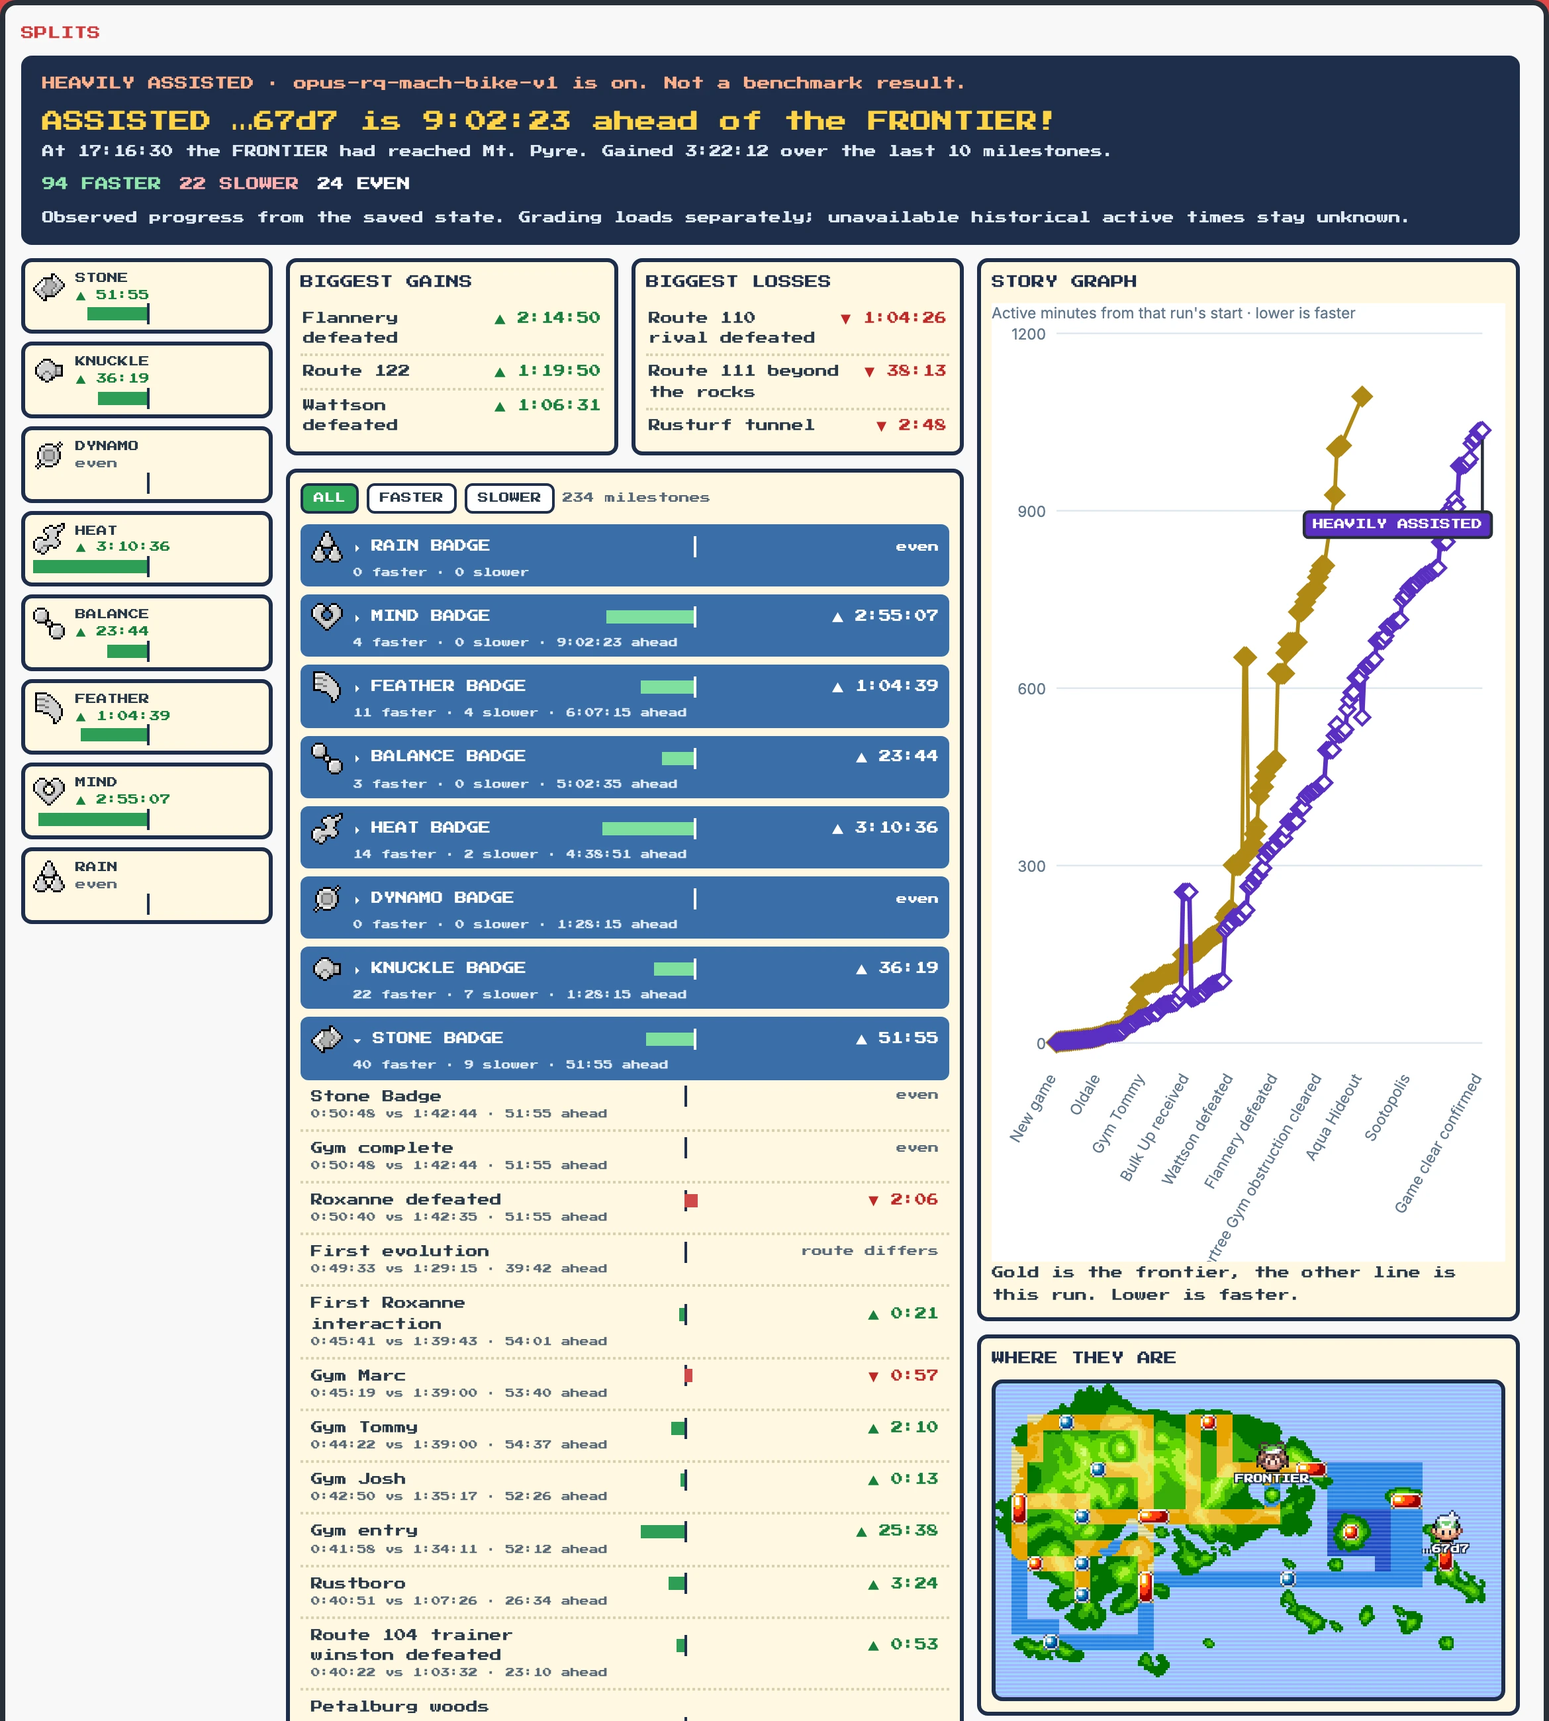
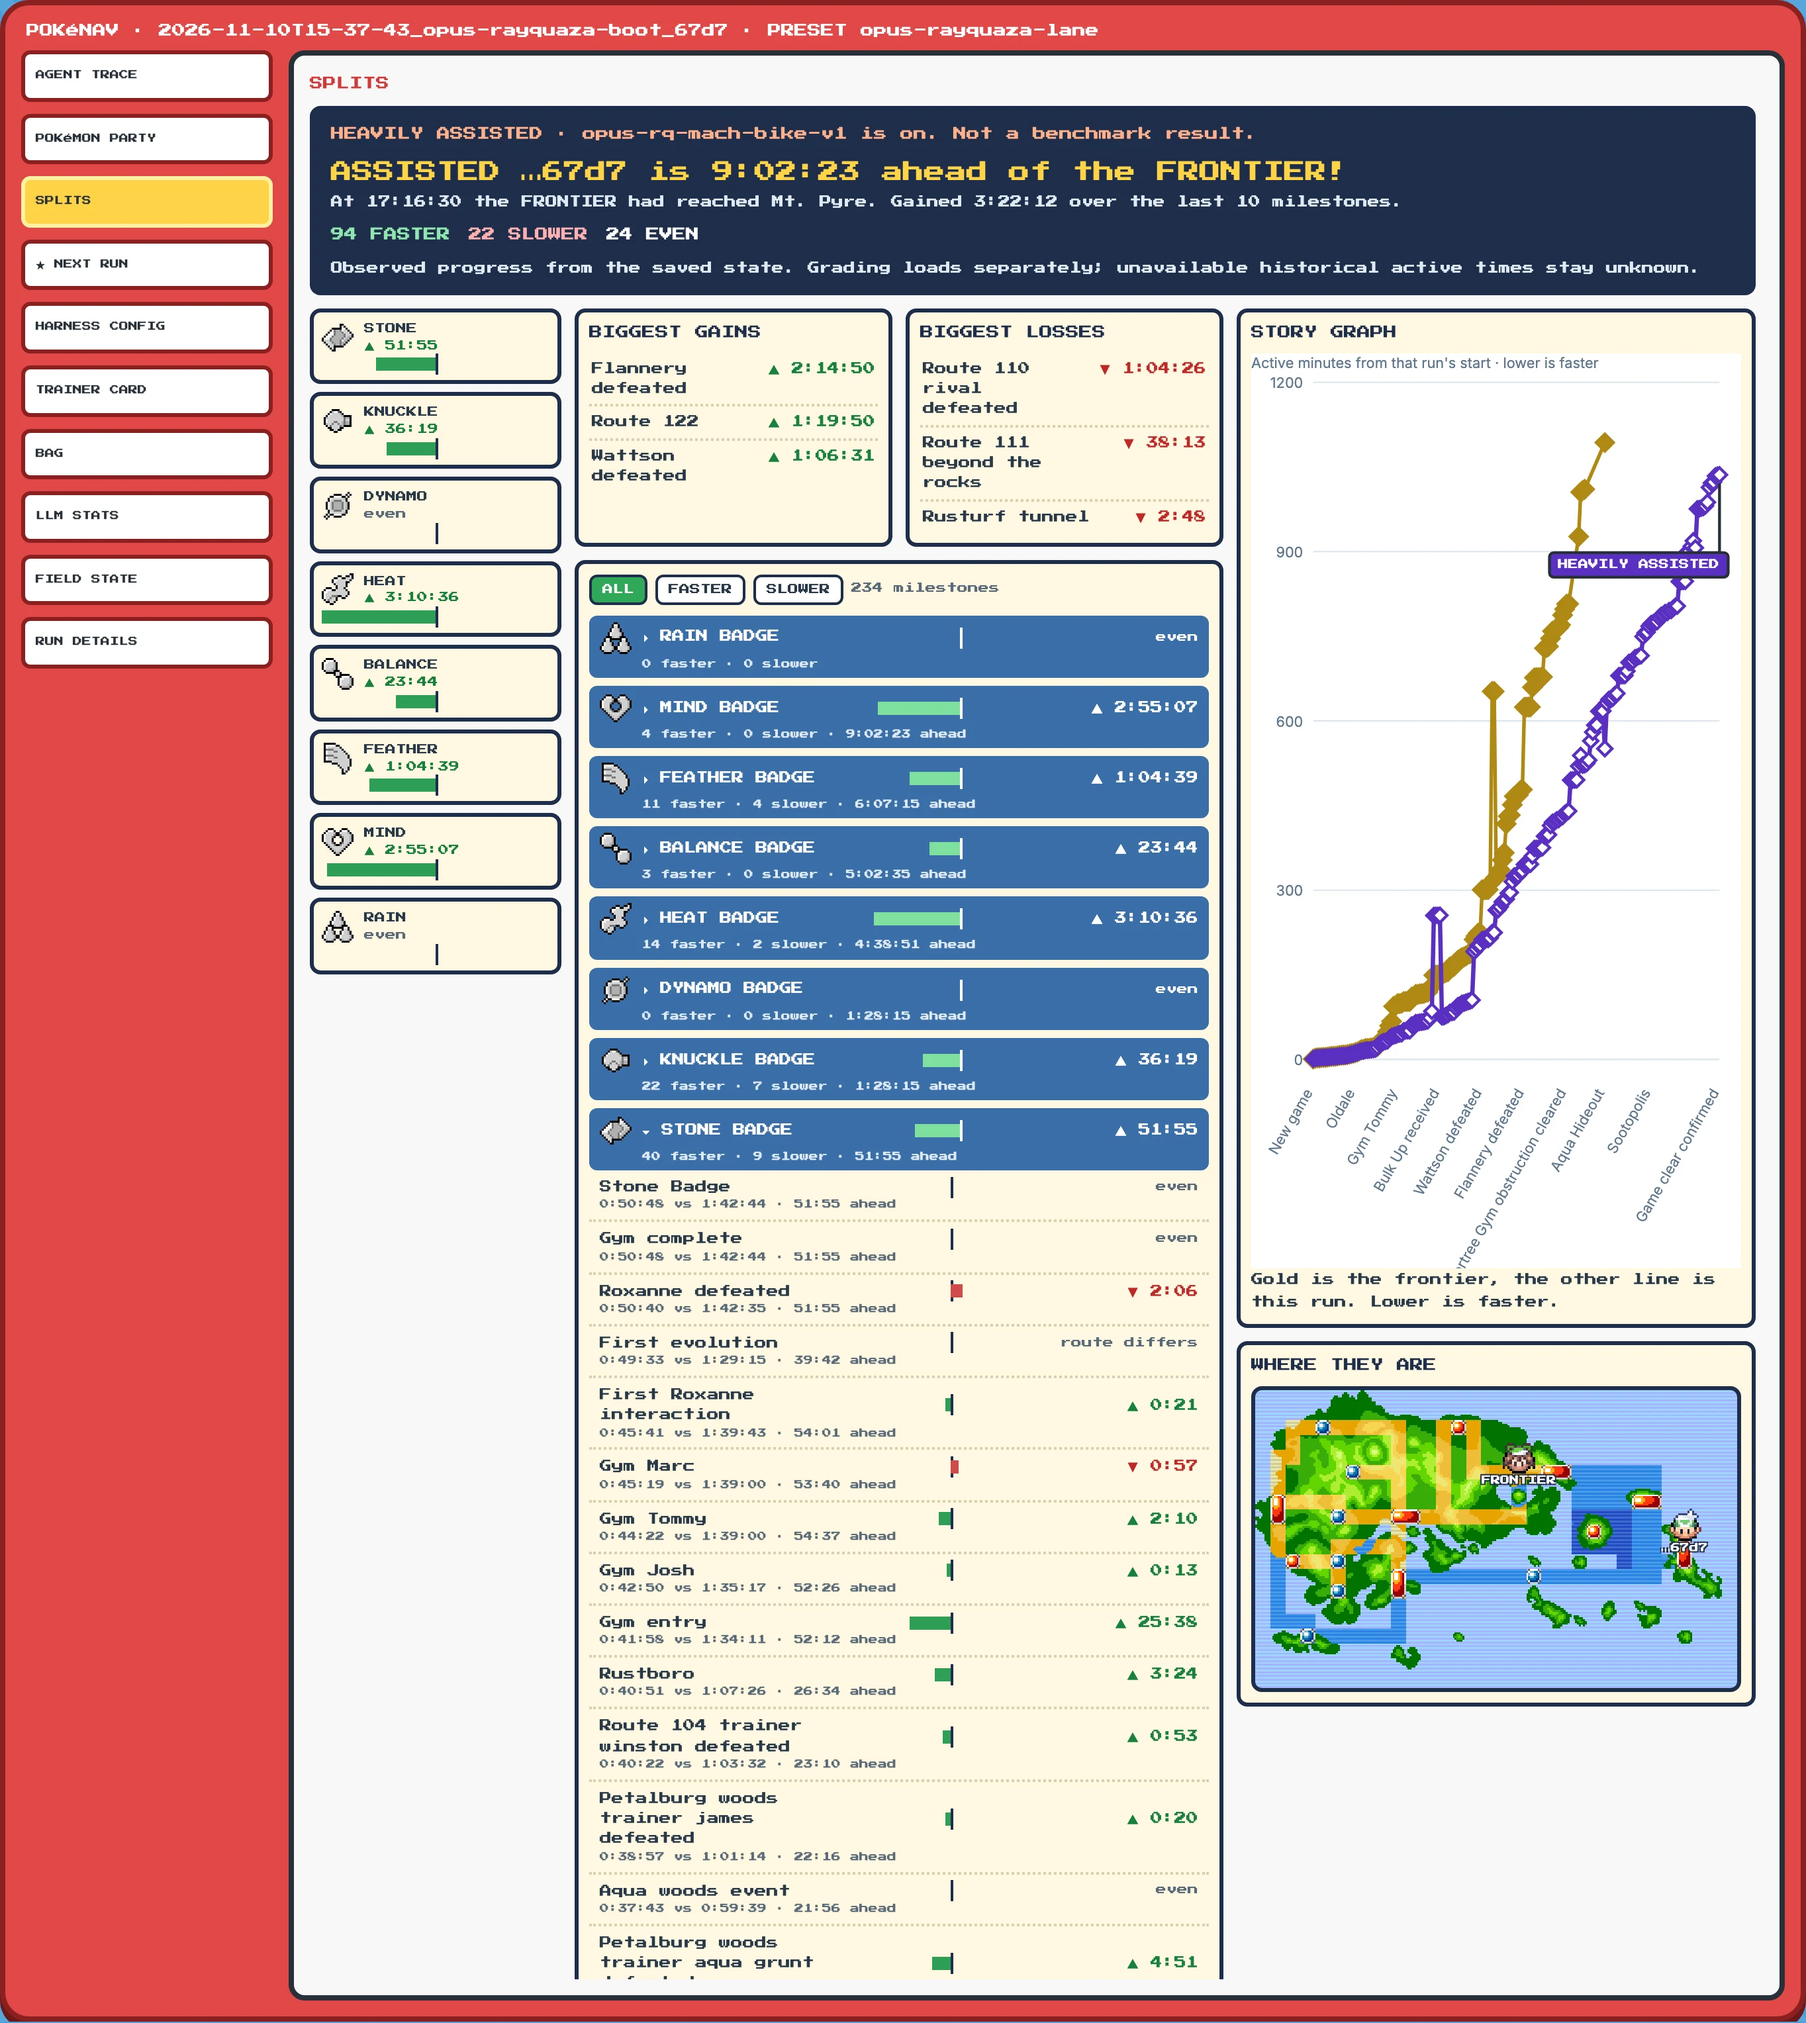
docs(readme): show the splits page inside the PokéNav shell

diff --git a/README.md b/README.md
@@ -34,7 +34,7 @@ Every run is recorded, and the viewer replays it with the game screen, the model
 
 The splits page races one run against the frontier, badge by badge, with the story graph and where both runs are on the map.
 
-![The splits page racing Opus's clear against the frontier, grouped by badge](docs/images/viewer-splits.webp)
+![The PokéNav splits page racing Opus's clear against the frontier, grouped by badge, with the story graph and map](docs/images/viewer-splits.webp)
 
 ## How it works
 
